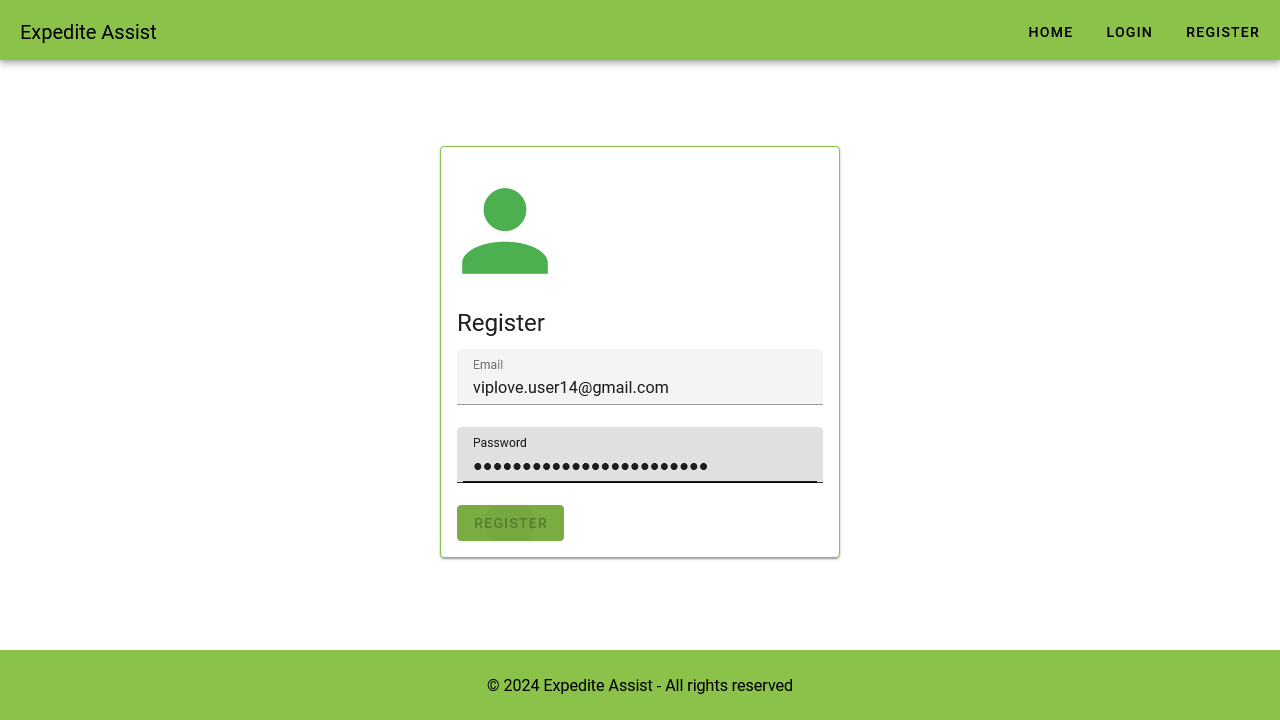
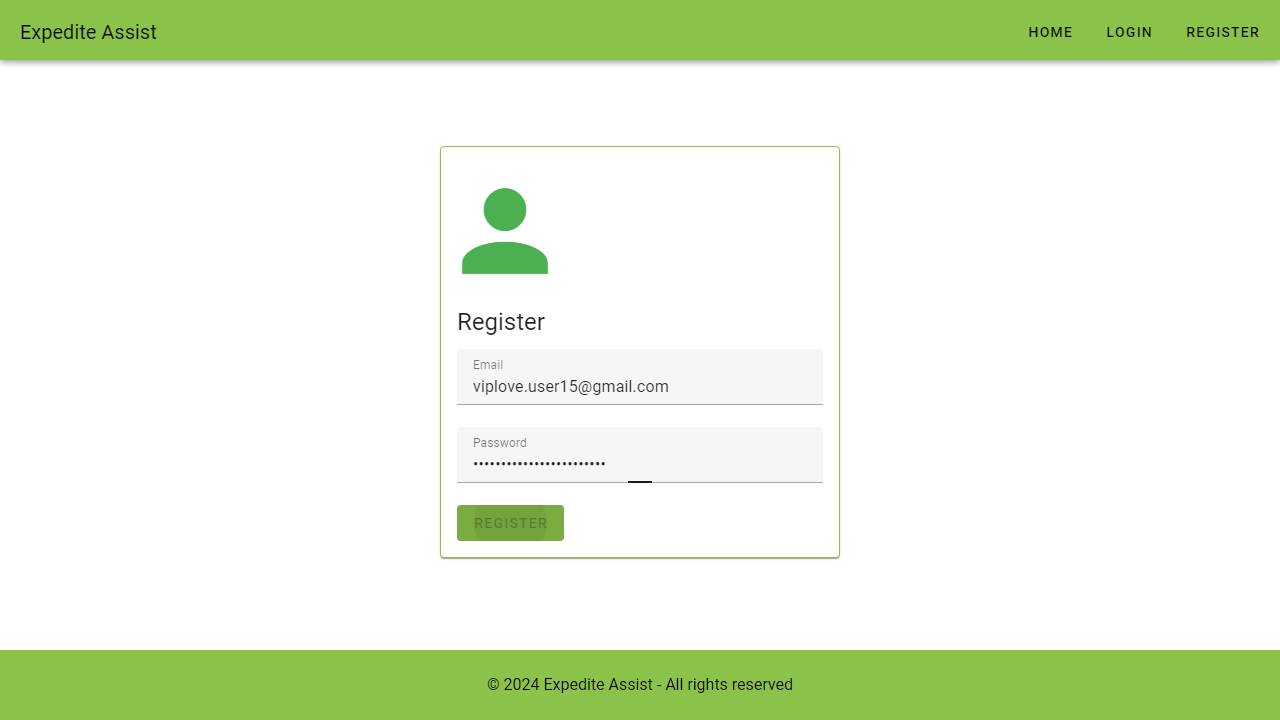
puch more changes

diff --git a/tests_expidite_assist/expedite-assist-test.spec.ts b/tests_expidite_assist/expedite-assist-test.spec.ts
@@ -1,157 +1,165 @@
+import { test, expect, Browser, Page, Locator } from "@playwright/test";
+import * as data from "../test-data/test-data.json";
+import { webkit, chromium, firefox } from "playwright";
+import RegisterPage from "../pages/registerPage";
 
-import {test, expect, Browser, Page, Locator} from '@playwright/test'
-import { webkit, chromium, firefox } from 'playwright'
-
-  // input values & url
-  const pageUrl:string='http://100.27.30.112/';
-  const emailID:string='viplove.user15@gmail.com';
-  const passWord:string='viplove.user15@gmail.com';
-
-test('Register New User', async () => {
-
+test("Test 1 Register New User", async ({ page }) => {
   //Brower info & open new page
-  const browser:Browser= await chromium.launch({headless:false});
-  const page:Page= await browser.newPage();
+  const browser: Browser = await chromium.launch({ headless: true });
+  // const page:Page= await browser.newPage();
 
   //locator
-  const registerButton:Locator = page.getByRole('main').getByRole('button', { name: 'Register' });
-  const emailId:Locator= page.getByLabel('Email');
-  const password:Locator = page.getByLabel('Password');;
+  const registerButton: Locator = page
+    .getByRole("main")
+    .getByRole("button", { name: "Register" });
+  const emailId: Locator = page.getByLabel("Email");
+  const password: Locator = page.getByLabel("Password");
 
- //Navigate to url & register email id 
-  await page.goto(pageUrl);
+  //Navigate to url & register email id
+  await page.goto(data.pageUrl);
   await registerButton.click();
   await emailId.click();
-  await emailId.fill(emailID);
+  await emailId.fill(data.email);
   await password.click();
-  await password.fill(passWord);
+  await password.fill(data.password);
   await registerButton.click();
 
-  // Verify title 
-  const title= await page.title();
-  console.log("Home page title : ",title);
+  // Verify title
+  const title = await page.title();
+  console.log("Home page title : ", title);
 
-  await page.screenshot({path: '.\screenshots\hompage.png'})
+  await page.screenshot({ path: ".\\screenshots\\hompage1.png" });
   expect(title).toEqual("frontend");
-
-  //await delay(5000); 
-  await new Promise(resolve => setTimeout(resolve, 2000)); // 5 sec
-  await browser.close();
-
 });
 
-
-test('Verify Login Functionality', async () => {
-
+test("Test 2 Verify Login Functionality", async () => {
   //Brower info & open new page
-  const browser:Browser= await chromium.launch({headless:false});
-  const page:Page= await browser.newPage();
+  const browser: Browser = await chromium.launch({ headless: true });
+  const page: Page = await browser.newPage();
 
   //locator
-  const registerButton:Locator = page.getByRole('main').getByRole('button', { name: 'Register' });
-  const emailId:Locator= page.getByLabel('Email');
-  const password:Locator = page.getByLabel('Password');;
-  const loginButton:Locator = page.getByRole('main').getByRole('button', { name: 'Login' });
+  const registerButton: Locator = page
+    .getByRole("main")
+    .getByRole("button", { name: "Register" });
+  const emailId: Locator = page.getByLabel("Email");
+  const password: Locator = page.getByLabel("Password");
+  const loginButton: Locator = page
+    .getByRole("main")
+    .getByRole("button", { name: "Login" });
 
-  //Navigate to url & register email id 
-  await page.goto(pageUrl);
+  //Navigate to url & login with credentials
+  await page.goto(data.pageUrl);
   await loginButton.click();
 
-  //Login 
+  //Login
   await emailId.click();
-  await emailId.fill(emailID);
+  await emailId.fill(data.email);
   await password.click();
-  await password.fill(passWord);
+  await password.fill(data.email);
   await loginButton.click();
 
-  // Verify title 
-  const title= await page.title();
-  console.log("Login page title : ",title);
-  await page.screenshot({path: 'loginpage.png'})
+  // Verify title
+  const title = await page.title();
+  console.log("Login page title : ", title);
+  await page.screenshot({ path: ".\\screenshots\\loginpage1.png" });
   expect(title).toEqual("frontend");
-  await browser.close();
-
 });
 
-
-test('Creat Support ticket for Expidite Assit', async () => {
-
+test("Test 3 Create Support ticket for Expidite Assit", async () => {
   //Brower info & open new page
-  const browser:Browser= await chromium.launch({headless:false});
-  const page:Page= await browser.newPage();
+  const browser: Browser = await chromium.launch({ headless: false });
+  const page: Page = await browser.newPage();
 
   //locator
-  const emailId:Locator= page.getByLabel('Email');
-  const password:Locator = page.getByLabel('Password');;
-  const loginButton:Locator = page.getByRole('main').getByRole('button', { name: 'Login' });
-  const createSupportTicketButton:Locator  = page.getByRole('button', { name: 'Create Support Ticket' });
-  const titleTicketTextBox:Locator  = page.getByLabel('Title');
-  const ticketDescription:Locator  = page.getByLabel('Description');
-  const submitTicket:Locator  = page.getByRole('button', { name: 'Submit Ticket' });
+  const emailId: Locator = page.getByLabel("Email");
+  const password: Locator = page.getByLabel("Password");
+  const loginButton: Locator = page
+    .getByRole("main")
+    .getByRole("button", { name: "Login" });
+  const createSupportTicketButton: Locator = page.getByRole("button", {
+    name: "Create Support Ticket",
+  });
+  const titleTicketTextBox: Locator = page.getByLabel("Title");
+  const ticketDescription: Locator = page.getByLabel("Description");
+  const submitTicket: Locator = page.getByRole("button", {
+    name: "Submit Ticket",
+  });
 
-  //Navigate to url & register email id 
-  await page.goto(pageUrl);
+  //Navigate to url & login with credentials
+  await page.goto(data.pageUrl);
   await loginButton.click();
 
-  //Login 
+  //Login
   await emailId.click();
-  await emailId.fill(emailID);
+  await emailId.fill(data.email);
   await password.click();
-  await password.fill(passWord);
+  await password.fill(data.password);
   await loginButton.click();
 
-//Create Support ticket
+  //await delay(3000);
+  // await page.waitForTimeout(1000);
+
+  //Create Support ticket
   await createSupportTicketButton.click();
   await titleTicketTextBox.click();
-  await titleTicketTextBox.fill('test ticket Viplove');
+  await titleTicketTextBox.fill(data.ticketTitle);
   await ticketDescription.click();
-  await ticketDescription.fill(' There is some issue with Ui please fix it Viplove');
+  await ticketDescription.fill(data.ticketDescription);
   await submitTicket.click();
   await browser.close();
 });
 
-
-test('Creat Case for Expidite Assit', async () => {
-
+test("Test 4 Create Case for Expidite Assit", async () => {
   //Brower info & open new page
-  const browser:Browser= await chromium.launch({headless:false});
-  const page:Page= await browser.newPage();
+  const browser: Browser = await chromium.launch({ headless: true });
+  const page: Page = await browser.newPage();
 
   //locator
-  const emailId:Locator= page.getByLabel('Email');
-  const password:Locator = page.getByLabel('Password');;
-  const loginButton:Locator = page.getByRole('main').getByRole('button', { name: 'Login' });
-  const createCaseButton:Locator  = page.getByRole('button', { name: 'Create Case' });
-  const caseName:Locator  =page.getByLabel('Case Name');
-  const selectItemDropdDown:Locator  = page.getByRole('combobox').locator('div').filter({ hasText: 'Select ItemSelect Item' }).locator('div');
-  const selectItemDropdDownOption:Locator  = page.getByRole('option');
-  const submitCase:Locator  = page.getByRole('button', { name: 'Submit Case' });
+  const emailId: Locator = page.getByLabel("Email");
+  const password: Locator = page.getByLabel("Password");
+  const loginButton: Locator = page
+    .getByRole("main")
+    .getByRole("button", { name: "Login" });
+  const createCaseButton: Locator = page.getByRole("button", {
+    name: "Create Case",
+  });
+  const caseName: Locator = page.getByLabel("Case Name");
+  const selectItemDropdDown: Locator = page
+    .getByRole("combobox")
+    .locator("div")
+    .filter({ hasText: "Select ItemSelect Item" })
+    .locator("div");
+  const selectItemDropdDownOption: Locator = page.getByRole("option");
+  const submitCase: Locator = page.getByRole("button", { name: "Submit Case" });
 
-//Navigate to url & register email id 
-await page.goto(pageUrl);
-await loginButton.click();
+  //Navigate to url & login with credentials
+  await page.goto(data.pageUrl);
+  await loginButton.click();
 
-//Login 
-await emailId.click();
-await emailId.fill(emailID);
-await password.click();
-await password.fill(passWord);
-await loginButton.click();
+  //Login
+  await emailId.click();
+  await emailId.fill(data.email);
+  await password.click();
+  await password.fill(data.password);
+  await loginButton.click();
 
-//Create Case
-await createCaseButton.click();
-await caseName.click();
-await caseName.fill('Case Nunber 12213');
-await selectItemDropdDown.click();
-await selectItemDropdDownOption.first().click();
-await submitCase.click();
+  //Create Case
+  await createCaseButton.click();
+  await caseName.click();
+  await caseName.fill(data.case);
 
-//Validated Home page items
-await expect(page.getByRole('button', { name: 'Create Case' })).toBeVisible();
-await expect(page.getByRole('button', { name: 'Create Support Ticket' })).toBeVisible();
-await expect(page.getByRole('button', { name: 'Home' })).toBeVisible();
-await expect(page.getByRole('banner')).toContainText('Expedite Assist');
-await expect(page.getByRole('main')).toContainText('Your Tickets');
-await browser.close();
+  await selectItemDropdDown.click();
+  await selectItemDropdDownOption.first().click();
+  await submitCase.click();
 
+  //Validated Home page items
+  await expect(page.getByRole("button", { name: "Create Case" })).toBeVisible();
+  await expect(
+    page.getByRole("button", { name: "Create Support Ticket" })
+  ).toBeVisible();
+  await expect(page.getByRole("button", { name: "Home" })).toBeVisible();
+  await expect(page.getByRole("banner")).toContainText("Expedite Assist");
+  await expect(page.getByRole("main")).toContainText("Your Tickets");
+
+  await browser.close();
 });

diff --git a/pages/loginPage.ts b/pages/loginPage.ts
@@ -1,0 +1,25 @@
+import { Page } from "@playwright/test";
+export default class LoginPage {
+  constructor(public page: Page) {}
+
+  async login(email: string, password: string) {
+    await this.enterEmail(email);
+    await this.enterLoginPassword(password);
+    await this.clickLoginBtn();
+  }
+
+  async enterEmail(emailaddress: string) {
+    await this.page.locator("input[name='email']").type(emailaddress);
+  }
+
+  async enterLoginPassword(password: string) {
+    await this.page.locator("input[name='password']").type(password);
+  }
+
+  async clickLoginBtn() {
+    await Promise.all([
+      this.page.waitForNavigation(),
+      this.page.click("input[value='Login']"),
+    ]);
+  }
+}

diff --git a/pages/registerPage.ts b/pages/registerPage.ts
@@ -1,0 +1,12 @@
+import { Page } from "@playwright/test";
+export default class RegisterPage {
+  constructor(public page: Page) {}
+
+  async enterEmail(email: string) {
+    await this.page.locator("input[name='email']").type(email);
+  }
+
+  async enterPassword(password: string) {
+    await this.page.locator("input[name='password']").type(password);
+  }
+}

diff --git a/playwright.config.ts b/playwright.config.ts
@@ -42,10 +42,10 @@ export default defineConfig({
       use: { ...devices['Desktop Firefox'] },
     },
 
-    // {
-    //   name: 'webkit',
-    //   use: { ...devices['Desktop Safari'] },
-    // },
+    {
+      name: 'webkit',
+      use: { ...devices['Desktop Safari'] },
+    },
 
     /* Test against mobile viewports. */
     // {

diff --git a/README.md b/README.md
@@ -1,1 +1,53 @@
-This is sample playwright framewok very basic one which can launch browser and run few dummy cases. It is written using typescript
+# Playwright Demo for Expedite Assit page - Typescript
+
+## What is Playwright?
+- The playwright is a Node.js library to automate Chromium, Firefox, and WebKit with a single API. Playwright is built to enable cross-browser web testing.
+- Playwright by Microsoft did start as a fork of Puppeteer Puppeteer is a node library to automate the chromium browsers with the JavaScript API
+
+## How to use?
+- Clone the repository
+- open the project
+- From the terminal install all the dependencies using 'npm i'
+
+## Install Node.js
+
+Ensure Node.js is installed on your system. You can download and install it from nodejs.org.
+
+## To verify the installation, run:
+
+node -v
+npm -v
+
+## Initialize Your Project. Create a new project directory and initialize it:
+
+mkdir my-playwright-project
+cd my-playwright-project
+npm init -y
+
+## Install Playwright Use the following command to install Playwright:
+
+npm install @playwright/test
+
+
+## Install Browsers Install the required browser binaries:
+
+npx playwright install
+
+
+##  Verify Installation To ensure everything is set up, run a sample test:
+
+npx playwright test
+Run Playwright Tests
+
+## Use this command to run Playwright tests:
+
+npx playwright test
+
+## Required software
+- Node js -> v.14 or above
+- VS Code
+- Playwright Vs Code Extension
+
+Explore the Playwright Docs
+For further usage and configuration, check the official documentation:
+Playwright Documentation
